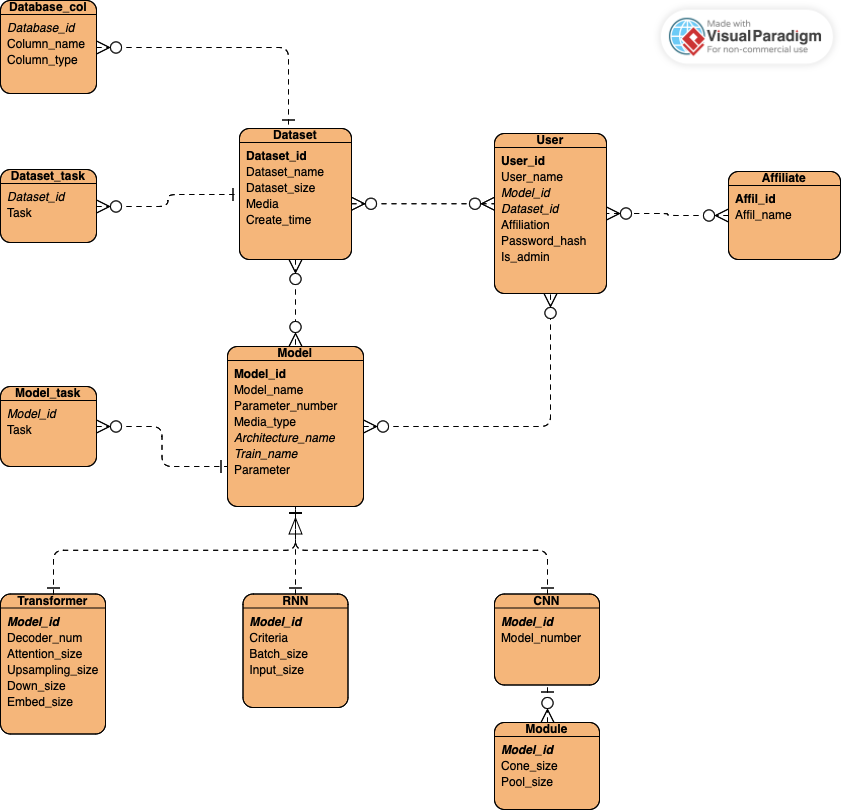
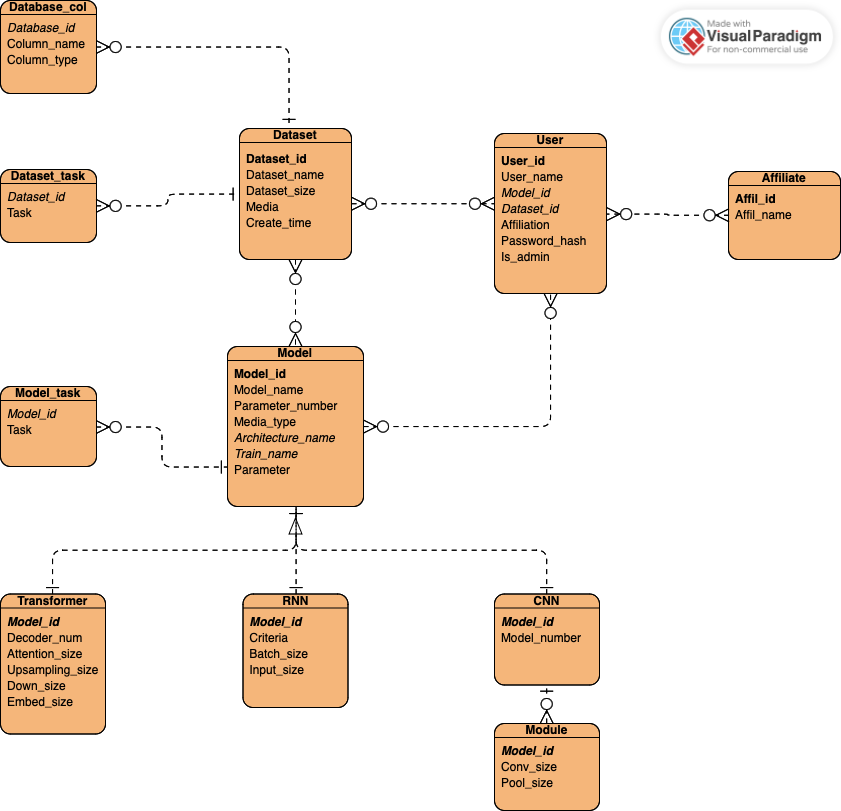
Add comparison & change name order

diff --git a/doc/demo_and_report/report-UNFINISHED.md b/doc/demo_and_report/report-UNFINISHED.md
@@ -467,7 +467,17 @@ HAVING
 
 ##### LLM refined database architecture
 
-[?]
+- Comparison
+
+  | Version | Previous | Current |
+  | ------- | -------- | ------- |
+  | ER Diagram | ![previous ER Diagram](material/ER-diagram-previous.png) | ![current ER Diagram](material/ER-diagram.png) |
+
+- Refinements:
+
+  - Decompose the multivalued attribute task_list from the Dataset and Model schemas into two independent schemas, dataset_task and model_task, to ensure the new database satisfies 4NF.
+  - Introduce a new affiliate schema to transform the user-affiliation relationship from many-to-one to many-to-many, better aligning with real-world scenarios.
+  - Separate cone_size and pool_size from the CNN schema, which offers advantages such as enhanced modularity (allowing independent configuration of convolutional and pooling operations), improved parameter reusability across network layers, and simplified maintenance of neural architecture components.
 
 ### 3.2. Self-Evaluation
 
@@ -479,6 +489,24 @@ HAVING
 - Generated the demo data for the database obtained from HuggingFace.
 - Fix some type constraints of attributes.
 - Drafted the answers to seven questions of this project and designed the powerpoint slides of presentation. 
+
+#### Shuhan Zhang
+
+- Designed the security schema upon database schema.
+- Designed the security code architecture.
+- Implemented symmetric and asymmetric encryption and signature algorithms.
+- Implemented user, invitation, and key operation functions.
+- Implemented python-Go socket connector.
+- Implemented encryption and decryption logics in frontend.
+
+#### Wentao Lin
+
+- Designed and implemented the core frontend architecture using Streamlit framework.
+- Developed the database API middleware layer for secure and efficient data operations.
+- Created modular components for user authentication, file upload/download, and search functionality.
+- Implemented the pagination system with Zirun Zheng and data visualization components.
+- Integrated the LLM agent with the frontend search interface with YuXuan Liu.
+- Collaborated with Zirun Zheng in refining the user interface and implementing file operations.
 
 #### Yimeng Teng
 
@@ -508,24 +536,6 @@ HAVING
 - Integrate with the agent and datebase part to implement the frontend's search functionality and pagination functionality, and further refine with Wentao Lin.
 - Collaborated with Wentao Lin in implementing the data upload and download functionality.
 - Translate the frontend's texts into English.
-
-#### Wentao Lin
-
-- Designed and implemented the core frontend architecture using Streamlit framework.
-- Developed the database API middleware layer for secure and efficient data operations.
-- Created modular components for user authentication, file upload/download, and search functionality.
-- Implemented the pagination system with Zirun Zheng and data visualization components.
-- Integrated the LLM agent with the frontend search interface with YuXuan Liu.
-- Collaborated with Zirun Zheng in refining the user interface and implementing file operations.
-
-#### Shuhan Zhang
-
-- Designed the security schema upon database schema.
-- Designed the security code architecture.
-- Implemented symmetric and asymmetric encryption and signature algorithms.
-- Implemented user, invitation, and key operation functions.
-- Implemented python-Go socket connector.
-- Implemented encryption and decryption logics in frontend.
 
 ## 4. References
 
